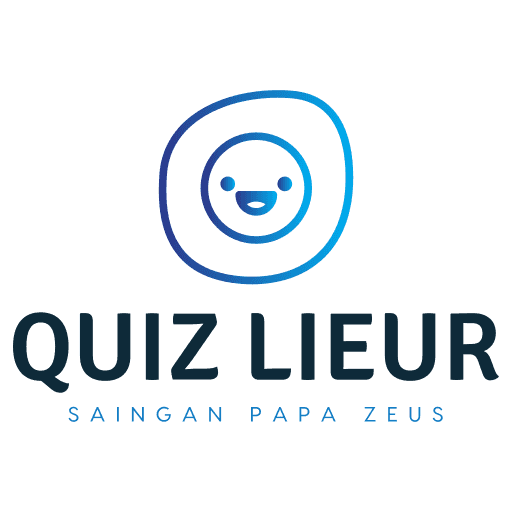
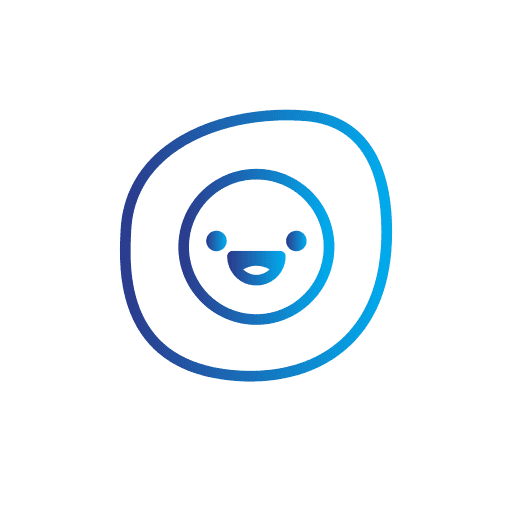
feature kajian

diff --git a/src/components/kajian/LogoTextIcon.vue b/src/components/kajian/LogoTextIcon.vue
@@ -1,0 +1,22 @@
+<template>
+  <svg :width="width" :height="height" viewBox="0 0 350 100" class="css-1j8o68f">
+    <g id="SvgjsG2759" featurekey="Qg0WB5-0" transform="scale(4)" fill="#111111">
+      <path
+        d="M0.52 20 l0 -0.54 c0.68 -0.74 1.04 -1.66 1.04 -2.58 l0 -7.7 c0 -0.96 -0.36 -1.92 -1.04 -2.6 l0 -0.58 l3.2 0 l0 8.22 l3.7 -2.9 l-0.14 -0.64 l0 -0.34 l3 0 l0 0.34 l-1.54 0.64 l-3.6 2.86 l1.02 -0.04 l3.82 4.18 c0.04 0.06 0.24 0.2 0.34 0.26 l1.4 0.88 l0 0.54 l-4.24 0 l0 -0.54 c0.5 -0.34 0.64 -1.06 0.26 -1.52 l-2.88 -3.54 l-1.14 0.9 l0 1.6 c0 0.94 0.34 1.82 1.02 2.56 l0 0.54 l-4.22 0 z M20.060000000000002 20 l-0.54 -0.14 c-0.9 -0.24 -1.88 -0.24 -2.72 0.02 c-0.34 0.1 -0.66 0.12 -0.98 0.12 c-1.96 0 -3.52 -1.54 -3.52 -3.48 c0 -1.9 1.56 -3.46 3.52 -3.46 c0.78 0 1.48 0.24 2.02 0.62 l0 -0.02 s0.16 -2.44 -0.92 -2.74 c-1.12 -0.32 -1.52 0.34 -2.34 1.58 l-1.68 -0.02 c0.52 -1.32 1.54 -2.24 2.98 -2.24 c0.54 0 1.1 0.1 1.64 0.26 c0 0 2.54 0.78 2.54 3.16 l0 6.34 z M13.92 17.02 c0.46 1.5 1.6 2.56 2.76 2.3 c1.12 -0.26 1.64 -1.72 1.18 -3.28 c-0.44 -1.48 -1.74 -2.54 -2.86 -2.26 c-1.14 0.28 -1.54 1.72 -1.08 3.24 z M18.06 24.4 l0 -1.86 l0.58 0 l0.68 0.48 c1.64 1.16 3.04 -0.82 3.04 -2.4 l0 -7.84 c0 -0.48 -0.18 -0.98 -0.5 -1.36 l-0.48 -0.52 l0 -0.56 l2.92 0 s0.02 2.34 0.02 2.44 l0 7.94 c0 2.3 -1.62 3.68 -3.96 3.68 l-2.3 0 z M23.06 9.46 c-0.78 0 -1.38 -0.64 -1.38 -1.4 c0 -0.78 0.6 -1.4 1.38 -1.4 s1.4 0.62 1.4 1.4 c0 0.76 -0.62 1.4 -1.4 1.4 z M26.18 20 l0 -0.54 c0.56 -0.7 0.86 -1.66 0.86 -2.62 l0 -3.32 c0 -0.98 -0.3 -1.92 -0.86 -2.62 l0 -0.56 l2.76 0 l0 6.52 c0 0.94 0.32 1.9 0.9 2.6 l0 0.54 l-3.66 0 z M27.72 9.46 c-0.76 0 -1.38 -0.64 -1.38 -1.4 c0 -0.78 0.62 -1.4 1.38 -1.4 c0.78 0 1.4 0.62 1.4 1.4 c0 0.76 -0.62 1.4 -1.4 1.4 z M38.900000000000006 20 l-0.54 -0.14 c-0.9 -0.24 -1.88 -0.24 -2.72 0.02 c-0.34 0.1 -0.66 0.12 -0.98 0.12 c-1.96 0 -3.52 -1.54 -3.52 -3.48 c0 -1.9 1.56 -3.46 3.52 -3.46 c0.78 0 1.48 0.24 2.02 0.62 l0 -0.02 s0.16 -2.44 -0.92 -2.74 c-1.12 -0.32 -1.52 0.34 -2.34 1.58 l-1.68 -0.02 c0.52 -1.32 1.54 -2.24 2.98 -2.24 c0.54 0 1.1 0.1 1.64 0.26 c0 0 2.54 0.78 2.54 3.16 l0 6.34 z M32.76 17.02 c0.46 1.5 1.6 2.56 2.76 2.3 c1.12 -0.26 1.64 -1.72 1.18 -3.28 c-0.44 -1.48 -1.74 -2.54 -2.86 -2.26 c-1.14 0.28 -1.54 1.72 -1.08 3.24 z M40.54 20 l0 -0.54 c0.66 -0.7 1.02 -1.66 1.02 -2.62 l0 -3.32 c0 -0.98 -0.36 -1.92 -1.02 -2.62 l0 -0.56 l3.18 0 l0 1.12 c0.68 -0.38 1.46 -0.62 2.18 -0.62 c2.34 0 3.62 1.42 3.62 4.88 l0 1.12 c0 0.96 0.38 1.92 1.06 2.62 l0 0.54 l-4.28 0 l0 -0.54 c0.68 -0.7 1.06 -1.66 1.06 -2.62 l0 -2.42 c0 -1.56 -1.42 -3.1 -2.82 -2.72 c-0.5 0.14 -0.82 0.62 -0.82 1.14 l0 4.02 c0 0.94 0.4 1.9 1.04 2.6 l0 0.54 l-4.22 0 z M51.66 20 l0 -0.54 l0.76 -0.84 c0.18 -0.2 0.3 -0.42 0.3 -0.68 l0 -9.86 c0 -0.28 -0.12 -0.52 -0.3 -0.7 l-0.76 -0.82 l0 -0.56 l4.26 0 l0 0.56 l-0.76 0.82 c-0.18 0.18 -0.28 0.42 -0.28 0.7 l0 4.36 l6.4 -5.04 c0.32 -0.24 0.42 -0.64 0.34 -1.04 l0 -0.36 l3.04 0 l0 0.34 l-0.7 0.28 c-0.56 0.24 -1.14 0.54 -1.64 0.94 l-5.56 4.44 l1.76 0 l4.64 5.84 c0.3 0.38 0.62 0.7 1.04 1 l0.84 0.62 l0 0.54 l-4.24 0 l0 -0.54 c0.5 -0.34 0.64 -1.04 0.26 -1.5 l-4.56 -5.74 l-1.62 1.28 l0 4.44 c0 0.26 0.1 0.48 0.28 0.7 l0.76 0.82 l0 0.54 l-4.26 0 z M65.76 15.32 l-0.02 -2.68 c0 -0.42 -0.12 -0.78 -0.34 -1.12 l-0.36 -0.62 l0 -0.56 l3.42 0 l0 0.56 l-0.36 0.56 c-0.24 0.36 -0.46 0.84 -0.46 1.24 l0.1 4.2 c0.04 1.28 1.2 2.14 2.5 2.14 c1.96 0 2.44 -1.32 2.44 -2.6 l0 -3.96 c0 -0.6 -0.26 -1.16 -0.7 -1.54 l0 -0.6 l2.24 0 l0 0.6 l-0.16 0.18 c-0.4 0.4 -0.58 0.9 -0.58 1.44 l0 4.24 c0 0.8 -0.16 3.3 -3.32 3.3 c-2.5 0 -4.36 -0.74 -4.4 -4.78 z  M74.74000000000001 21.86 l0 -1.86 l0.66 0 l1.28 1.3 s0.42 0.44 0.94 0.44 c0.28 0 0.58 -0.14 0.88 -0.52 l2.5 -3.28 l-3.8 -5.94 c-0.08 -0.14 -0.2 -0.24 -0.32 -0.32 l-1.18 -0.78 l0 -0.56 l4.06 0 l0 0.56 l-0.1 0.12 c-0.32 0.34 -0.38 0.92 -0.1 1.34 l2.52 4.06 l2.72 -3.98 c0.12 -0.18 0.2 -0.4 0.2 -0.62 c0 -0.34 -0.14 -0.66 -0.42 -0.86 l0 -0.62 l2.6 0 l0 0.62 l-0.56 0.34 c-0.12 0.08 -0.22 0.2 -0.3 0.3 l-7.28 10.16 s-1.16 1.36 -2.24 1.36 c-0.6 0 -1.3 -0.32 -2.06 -1.26 z"
+      ></path>
+    </g>
+  </svg>
+</template>
+
+<script setup>
+defineProps({
+  width: {
+    type: String,
+    default: '200'
+  },
+  height: {
+    type: String,
+    default: '100'
+  }
+})
+</script>

diff --git a/src/components/kajian/KajianMain.vue b/src/components/kajian/KajianMain.vue
@@ -1,0 +1,82 @@
+<template>
+  <div class="flex justify-center w-full h-full">
+    <div class="flex flex-col items-center justify-between">
+      <div class="h-16 py-5 flex justify-start items-center w-full">
+        <div
+          class="mx-3 rounded-full bg-kajian-darkGray w-10 h-10 flex justify-center items-center"
+        >
+          <font-awesome-icon :icon="['fas', 'user']" />
+        </div>
+        <div>nama akun</div>
+      </div>
+      <div class="h-4/6 w-full mb-auto">
+        <img src="@/assets/kajian/poster1.jpeg" class="object-cover h-full w-full" />
+      </div>
+      <div class="h-2/6 flex flex-col w-full items-center px-5">
+        <div class="h-10 text-xs flex justify-between items-center w-full mb-2">
+          <div class="w-6/12 flex items-center">
+            <template v-for="index in 3" :key="index">
+              <IconLike class="first:ml-0 -ml-2">
+                <font-awesome-icon :icon="['fas', 'hippo']" />
+              </IconLike>
+            </template>
+            <span class="ml-1 text-kajian-darkGray">998</span>
+          </div>
+          <div class="w-6/12 flex justify-end items-center">
+            <div class="mr-2 cursor-pointer hover:text-kajian-darkBlue text-kajian-darkGray">
+              10 Comment
+            </div>
+            <div class="mr-2">-</div>
+            <div class="mr-2 cursor-pointer hover:text-kajian-darkBlue text-kajian-darkGray">
+              25 Reposts
+            </div>
+          </div>
+        </div>
+        <hr class="border-kajian-gray border w-full" />
+        <div class="h-28 flex w-full flex-wrap text-sm mt-2">
+          <template v-for="(detail, key, index) in detailKajian" :key="index">
+            <div class="w-2/4 font-light">
+              <span>{{ key + ' : ' }}</span>
+              <span :class="[key == 'judul' ? 'uppercase font-bold' : 'capitalize']">{{
+                detail
+              }}</span>
+            </div>
+            <hr class="w-full border-none h-0" v-if="index % 2 == 1" />
+          </template>
+          <div
+            class="flex items-center justify-center w-full hover:text-kajian-darkBlue cursor-pointer capita"
+          >
+            see more >>
+          </div>
+        </div>
+        <hr class="border-kajian-gray border w-full" />
+        <div class="flex justify-around w-full items-center text-sm h-12">
+          <div class="cursor-pointer hover:text-kajian-darkBlue">
+            <font-awesome-icon :icon="['fas', 'thumbs-up']" /> <span>like</span>
+          </div>
+          <div class="cursor-pointer hover:text-kajian-darkBlue">
+            <font-awesome-icon :icon="['fas', 'comment']" /> <span>comment</span>
+          </div>
+          <div class="cursor-pointer hover:text-kajian-darkBlue">
+            <font-awesome-icon :icon="['fas', 'repeat']" /> <span>repost</span>
+          </div>
+          <div class="cursor-pointer hover:text-kajian-darkBlue">
+            <font-awesome-icon :icon="['fas', 'share']" /> <span>share</span>
+          </div>
+        </div>
+      </div>
+    </div>
+  </div>
+</template>
+
+<script setup>
+import IconLike from '@/components/kajian/iconPersonal/IconLike.vue'
+import { reactive } from 'vue'
+
+let detailKajian = reactive({
+  judul: 'jangan kasar',
+  location: 'bandung',
+  ustad: 'Handy Bonny',
+  jadwal: '19:00, senin, 14 januari 2023'
+})
+</script>

diff --git a/src/components/kajian/LogoIcon.vue b/src/components/kajian/LogoIcon.vue
@@ -1,0 +1,40 @@
+<template>
+  <svg :width="width" :height="height" viewBox="0 0 550 130" class="css-1j8o68f">
+    <defs id="SvgjsDefs2757">
+      <linearGradient id="SvgjsLinearGradient2762">
+        <stop id="SvgjsStop2763" stop-color="#006838" offset="0"></stop>
+        <stop id="SvgjsStop2764" stop-color="#96cf24" offset="1"></stop>
+      </linearGradient>
+    </defs>
+    <g
+      id="SvgjsG2758"
+      featurekey="e7LhAk-0"
+      transform="matrix(1.494624709516678,0,0,1.494624709516678,100.26951285139512,-3.736561773791695)"
+      fill="url(#SvgjsLinearGradient2762)"
+    >
+      <path
+        xmlns="http://www.w3.org/2000/svg"
+        fill="url(#SvgjsLinearGradient2762)"
+        d="M62.117,83.835c-20.894,0-37.837-16.926-37.837-37.808c0-20.887,16.943-37.831,37.837-37.831  c6.466,0,12.562,1.637,17.883,4.503C71.914,6.332,61.75,2.5,50.671,2.5C24.437,2.5,3.165,23.777,3.165,50.006  C3.165,76.24,24.437,97.5,50.671,97.5c22.421,0,41.179-15.57,46.163-36.475C91.021,74.45,77.661,83.835,62.117,83.835z"
+      ></path>
+      <polygon
+        xmlns="http://www.w3.org/2000/svg"
+        fill="url(#SvgjsLinearGradient2762)"
+        points="57.514,65.743 60.335,48.643 46.762,38.67 64.032,36.877 67.884,19.019 75.387,35.735   92.885,34.588 80.501,47.104 86.245,62.431 71.022,54.619 "
+      ></polygon>
+    </g>
+  </svg>
+</template>
+
+<script setup>
+defineProps({
+  width: {
+    type: String,
+    default: '200'
+  },
+  height: {
+    type: String,
+    default: '150'
+  }
+})
+</script>

diff --git a/src/components/kajian/KajianTopBar.vue b/src/components/kajian/KajianTopBar.vue
@@ -1,0 +1,33 @@
+<template>
+  <div
+    class="flex justify-between items-center bg-kajian-white h-20 px-52 border border-kajian-darkGray"
+  >
+    <div class="w-1/12">
+      <i>
+        <logoIcon></logoIcon>
+      </i>
+    </div>
+    <div>
+      <i>
+        <logoTextIcon></logoTextIcon>
+      </i>
+    </div>
+    <div class="flex justify-between items-center w-1/12">
+      <IconBorder>
+        <font-awesome-icon :icon="['fas', 'house']" />
+      </IconBorder>
+      <IconBorder>
+        <font-awesome-icon :icon="['fas', 'heart']" />
+      </IconBorder>
+      <IconBorder>
+        <font-awesome-icon :icon="['fas', 'user']" />
+      </IconBorder>
+    </div>
+  </div>
+</template>
+
+<script setup>
+import logoIcon from './LogoIcon.vue'
+import logoTextIcon from './LogoTextIcon.vue'
+import IconBorder from './iconPersonal/IconBorder.vue'
+</script>

diff --git a/src/main.js b/src/main.js
@@ -16,14 +16,14 @@ import { FontAwesomeIcon } from '@fortawesome/vue-fontawesome'
 
 /* import specific icons */
 import { faBookmark,faComment  } from '@fortawesome/free-regular-svg-icons'
-import { faComment as fasComment, faArrowLeft } from '@fortawesome/free-solid-svg-icons'
+import { faComment as fasComment, faArrowLeft, faUser, faHeart,faHouse, faHippo, faShieldDog,faShieldCat,faThumbsUp, faRepeat,faShare  } from '@fortawesome/free-solid-svg-icons'
 
 import {registerSW} from "virtual:pwa-register"
 
 
 
 /* add icons to the library */
-library.add(faBookmark,faComment,fasComment,faArrowLeft)
+library.add(faBookmark,faComment,fasComment,faArrowLeft,faUser,faHeart,faHouse,faHippo, faShieldDog,faShieldCat,faThumbsUp, faRepeat,faShare)
 
 registerSW({immediate:true})
 

diff --git a/src/router/index.js b/src/router/index.js
@@ -11,7 +11,7 @@ const router = createRouter({
     {
       path: '/',
       name: 'home',
-      redirect: { path: "/quiz/home" },
+      redirect: { path: "/kajian" },
       component: HomeView
     },
     {
@@ -50,6 +50,18 @@ const router = createRouter({
           path: 'score',
           name: 'Score',
           component:QuizzScore
+        }
+      ]
+    },
+    {
+      path: '/kajian',
+      name: 'kajian',
+      component: () => import('@/views/KajianView.vue'),
+      children: [
+        {
+          path: 'main',
+          name: 'kajianMain',
+          component:()=> import('@/components/kajian/KajianMain.vue')
         }
       ]
     }

diff --git a/src/views/KajianView.vue b/src/views/KajianView.vue
@@ -1,0 +1,15 @@
+<template>
+  <div class="bg-kajian-gray w-full h-full">
+    <KajianTopBar></KajianTopBar>
+    <main class="flex justify-center h-[54rem] w-full mt-7">
+      <div class="bg-kajian-white h-full w-4/12 border border-kajian-darkGray rounded-xl">
+        <RouterView></RouterView>
+      </div>
+    </main>
+  </div>
+</template>
+
+<script setup>
+import KajianTopBar from '../components/kajian/KajianTopBar.vue'
+import { RouterView } from 'vue-router'
+</script>

diff --git a/tailwind.config.js b/tailwind.config.js
@@ -12,7 +12,13 @@ module.exports = {
       'quiz-darkBlue':'#264898',
       'quiz-blue':'#0AA7E8',
       'quiz-lightBlue':'#59d2fe',
-      'quiz-darkBlue2':'#191923'
+      'quiz-darkBlue2': '#191923',
+      'kajian-darkBlue':'#0964F6',
+      'kajian-gray':'#E6EBF9',
+      'kajian-darkGray':'#b4b4b4',
+      'kajian-lightBlue':'#4DB2FE',
+      'kajian-blue':'#1C8AF8',
+      'kajian-white':'#FEFEFE',
     },
     },
   },

diff --git a/dev-dist/sw.js b/dev-dist/sw.js
@@ -82,7 +82,7 @@ define(['./workbox-5357ef54'], (function (workbox) { 'use strict';
     "revision": "3ca0b8505b4bec776b69afdba2768812"
   }, {
     "url": "index.html",
-    "revision": "0.h6feqrl8kp8"
+    "revision": "0.8r23jrfd10g"
   }], {});
   workbox.cleanupOutdatedCaches();
   workbox.registerRoute(new workbox.NavigationRoute(workbox.createHandlerBoundToURL("index.html"), {

diff --git a/index.html b/index.html
@@ -2,9 +2,9 @@
 <html lang="en">
   <head>
     <meta charset="UTF-8">
-    <link rel="icon" href="/favicon.ico">
+    <link rel="icon" href="/pwa-512x512.png">
     <meta name="viewport" content="width=device-width, initial-scale=1.0">
-    <title>Vite App</title>
+    <title>Porto</title>
   </head>
   <body>
     <div id="app"></div>

diff --git a/src/components/kajian/iconPersonal/IconBorder.vue b/src/components/kajian/iconPersonal/IconBorder.vue
@@ -1,0 +1,7 @@
+<template>
+  <div
+    class="rounded-full bg-kajian-white w-8 h-8 flex items-center justify-center cursor-pointer border-kajian-gray border-2 hover:bg-kajian-gray hover:text-red-800 text-black"
+  >
+    <slot></slot>
+  </div>
+</template>

diff --git a/src/App.vue b/src/App.vue
@@ -1,9 +1,9 @@
 <script setup>
-import { RouterLink, RouterView } from 'vue-router'
+import { RouterView } from 'vue-router'
 </script>
 
 <template>
-  <div>
+  <div class="w-screen h-screen">
     <RouterView />
   </div>
 </template>
